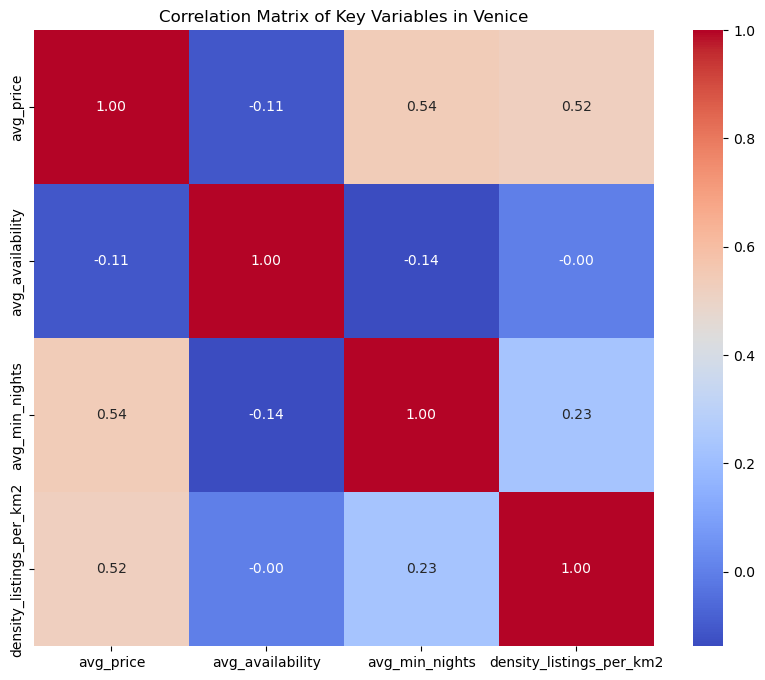
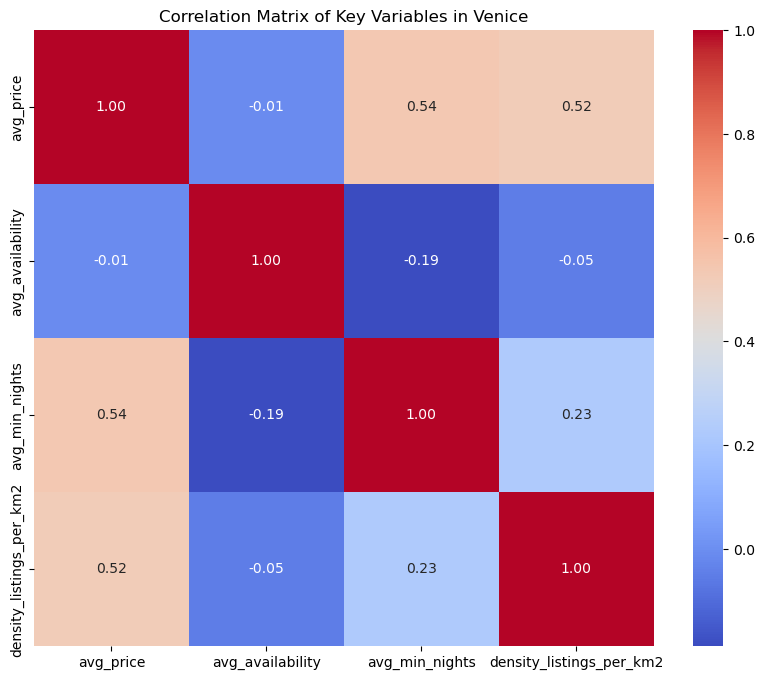
Add analysis for 4 listings files, add download from immobiliare, add more plot

diff --git a/download_external.py b/download_external.py
@@ -1,0 +1,43 @@
+
+import pandas as pd
+import requests
+import time
+
+url = "https://www.immobiliare.it/api-next/city-guide/price-chart/1/"
+
+paths = [
+    "/mercato-immobiliare/veneto/venezia/san-marco-rialto/",
+    "/mercato-immobiliare/veneto/venezia/san-polo-santa-croce/",
+    "/mercato-immobiliare/veneto/venezia/accademia-salute-dorsoduro-san-barnaba-santa-marta/",
+    "/mercato-immobiliare/veneto/venezia/santi-giovanni-paolo-san-francesco/",
+    "/mercato-immobiliare/veneto/venezia/guglie-san-leonardo-santi-apostoli/",
+    "/mercato-immobiliare/veneto/venezia/giudecca/"
+    "/mercato-immobiliare/veneto/venezia/lido-di-venezia-malamocco-alberoni/"
+    "/mercato-immobiliare/veneto/venezia/cipressina-zelarino-asseggiano/"
+    "/mercato-immobiliare/veneto/venezia/mestre-chirignago-marghera-catene/"
+    "/mercato-immobiliare/veneto/venezia/carpenedo-favaro-campalto-aeroporto/"
+    ,
+]
+
+headers = {
+    "User-Agent": "Mozilla/5.0 (Windows NT 10.0; Win64; x64) "
+                  "AppleWebKit/537.36 (KHTML, like Gecko) "
+                  "Chrome/118.0.0.0 Safari/537.36",
+    "Accept": "application/json, text/plain, */*",
+    "Referer": "https://www.immobiliare.it/",
+    "Accept-Language": "en-US,en;q=0.9"
+}
+
+records = []
+
+for path in paths:
+    res = requests.get(url, headers=headers, params={"__lang": "en", "path": path})
+    data = res.json()
+    temp = pd.DataFrame(data, columns=['labels', 'values'])
+    temp['timestamp'] = pd.to_datetime(temp['labels'])
+    temp['neighborhood'] = path.split('/')[-2]
+    records.append(temp)
+    time.sleep(2)
+
+df_all = pd.concat(records)
+df_all.to_csv("./airbnb_data/immobiliare_venice_price_trends.csv", index=False)

diff --git a/aggregate_listings.py b/aggregate_listings.py
@@ -14,6 +14,7 @@ OUTLIER_DIR.mkdir(parents=True, exist_ok=True)
 files = [
     "2024-12-07_listings.csv",
     "2025-03-02_listings.csv",
+    "2025-06-09_listings.csv",
     "2025-09-11_listings.csv"
 ]
 
@@ -25,7 +26,7 @@ cols = [
     'last_review', 'reviews_per_month', 'calculated_host_listings_count',
     'calculated_host_listings_count_entire_homes', 'calculated_host_listings_count_private_rooms',
     'calculated_host_listings_count_shared_rooms', 'host_listings_count', 'host_is_superhost',
-    'amenities', 'last_scraped', 'license', 'availability_365'
+    'amenities', 'last_scraped', 'license', 'availability_90'
 ]
 
 # ======== FUNCTIONS ========
@@ -70,7 +71,7 @@ def clean_and_aggregate(file_path):
         avg_price_per_person=('price_per_accommodate', 'mean'),
         pct_entire_home=('room_type', lambda x: (x=='Entire home/apt').mean()*100),
         pct_superhost=('host_is_superhost', lambda x: (x=='t').mean()*100),
-        avg_availability=('availability_365', 'mean'),
+        avg_availability=('availability_90', 'mean'),
         avg_rating=('review_scores_rating', 'mean'),
         avg_reviews=('number_of_reviews', 'mean'),
         avg_min_nights=('minimum_nights', 'mean'),
